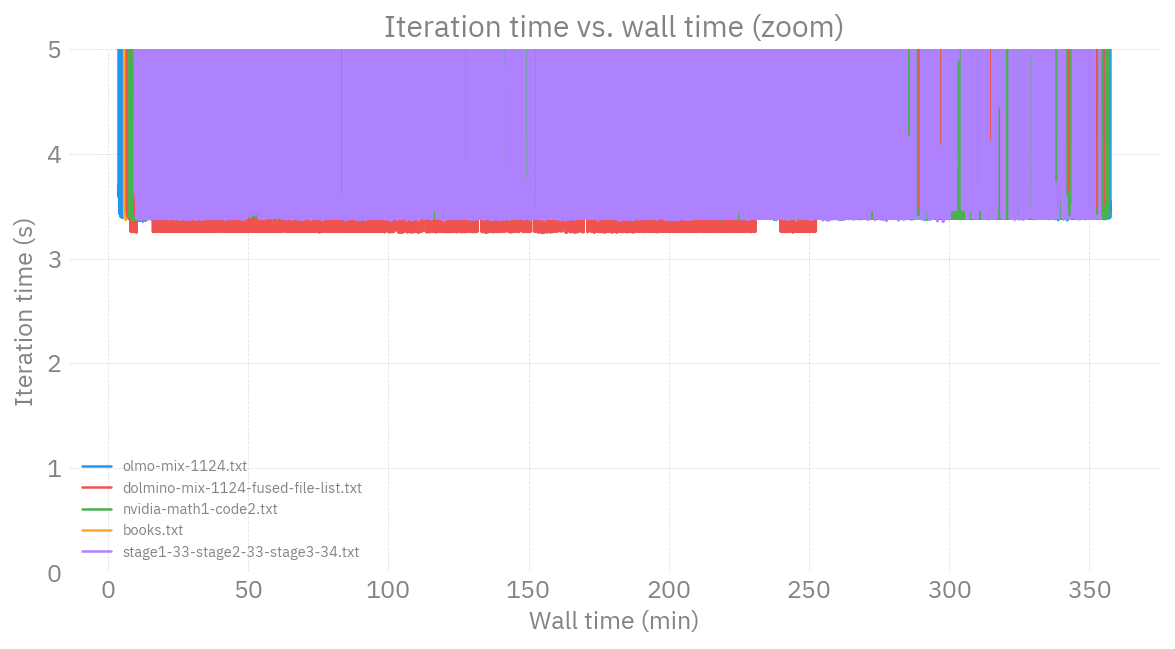
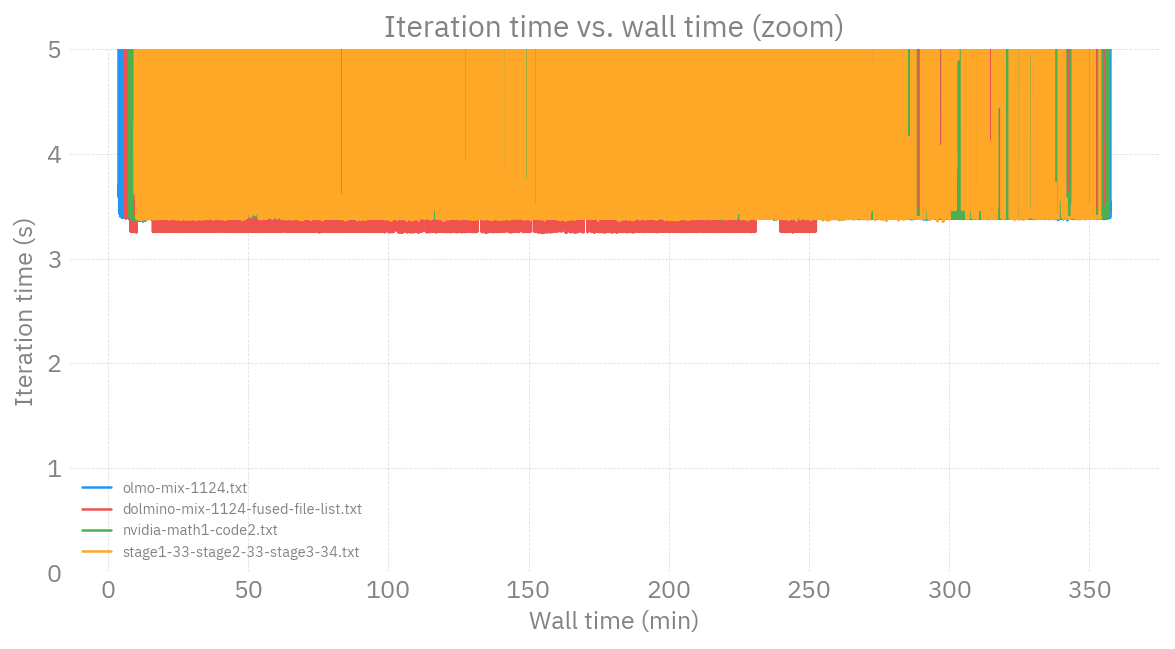
fix: Exclude books.txt data from training report
Drop runs whose data_file_list is ALCF/data-lists/aurora/books.txt.
68 runs (was 69), 5 groups (was 6). Removes the failed-restart spike
near ~7T tokens.

Changed region(s): [[0.0919, 0.0616, 0.9498, 0.339], [0.0613, 0.7088, 0.3064, 0.8629]]

diff --git a/ALCF/AuroraGPT/2B/scripts/generate_report.py b/ALCF/AuroraGPT/2B/scripts/generate_report.py
@@ -91,6 +91,8 @@ REPORT_FILTERS: dict[str, Any] = {
             "autumn-sea-4394",
         ]}},
         {"tags": {"$nin": ["cooldown"]}},
+        {"config.args.value.data_file_list":
+            {"$nin": ["ALCF/data-lists/aurora/books.txt"]}},
     ]
 }
 
